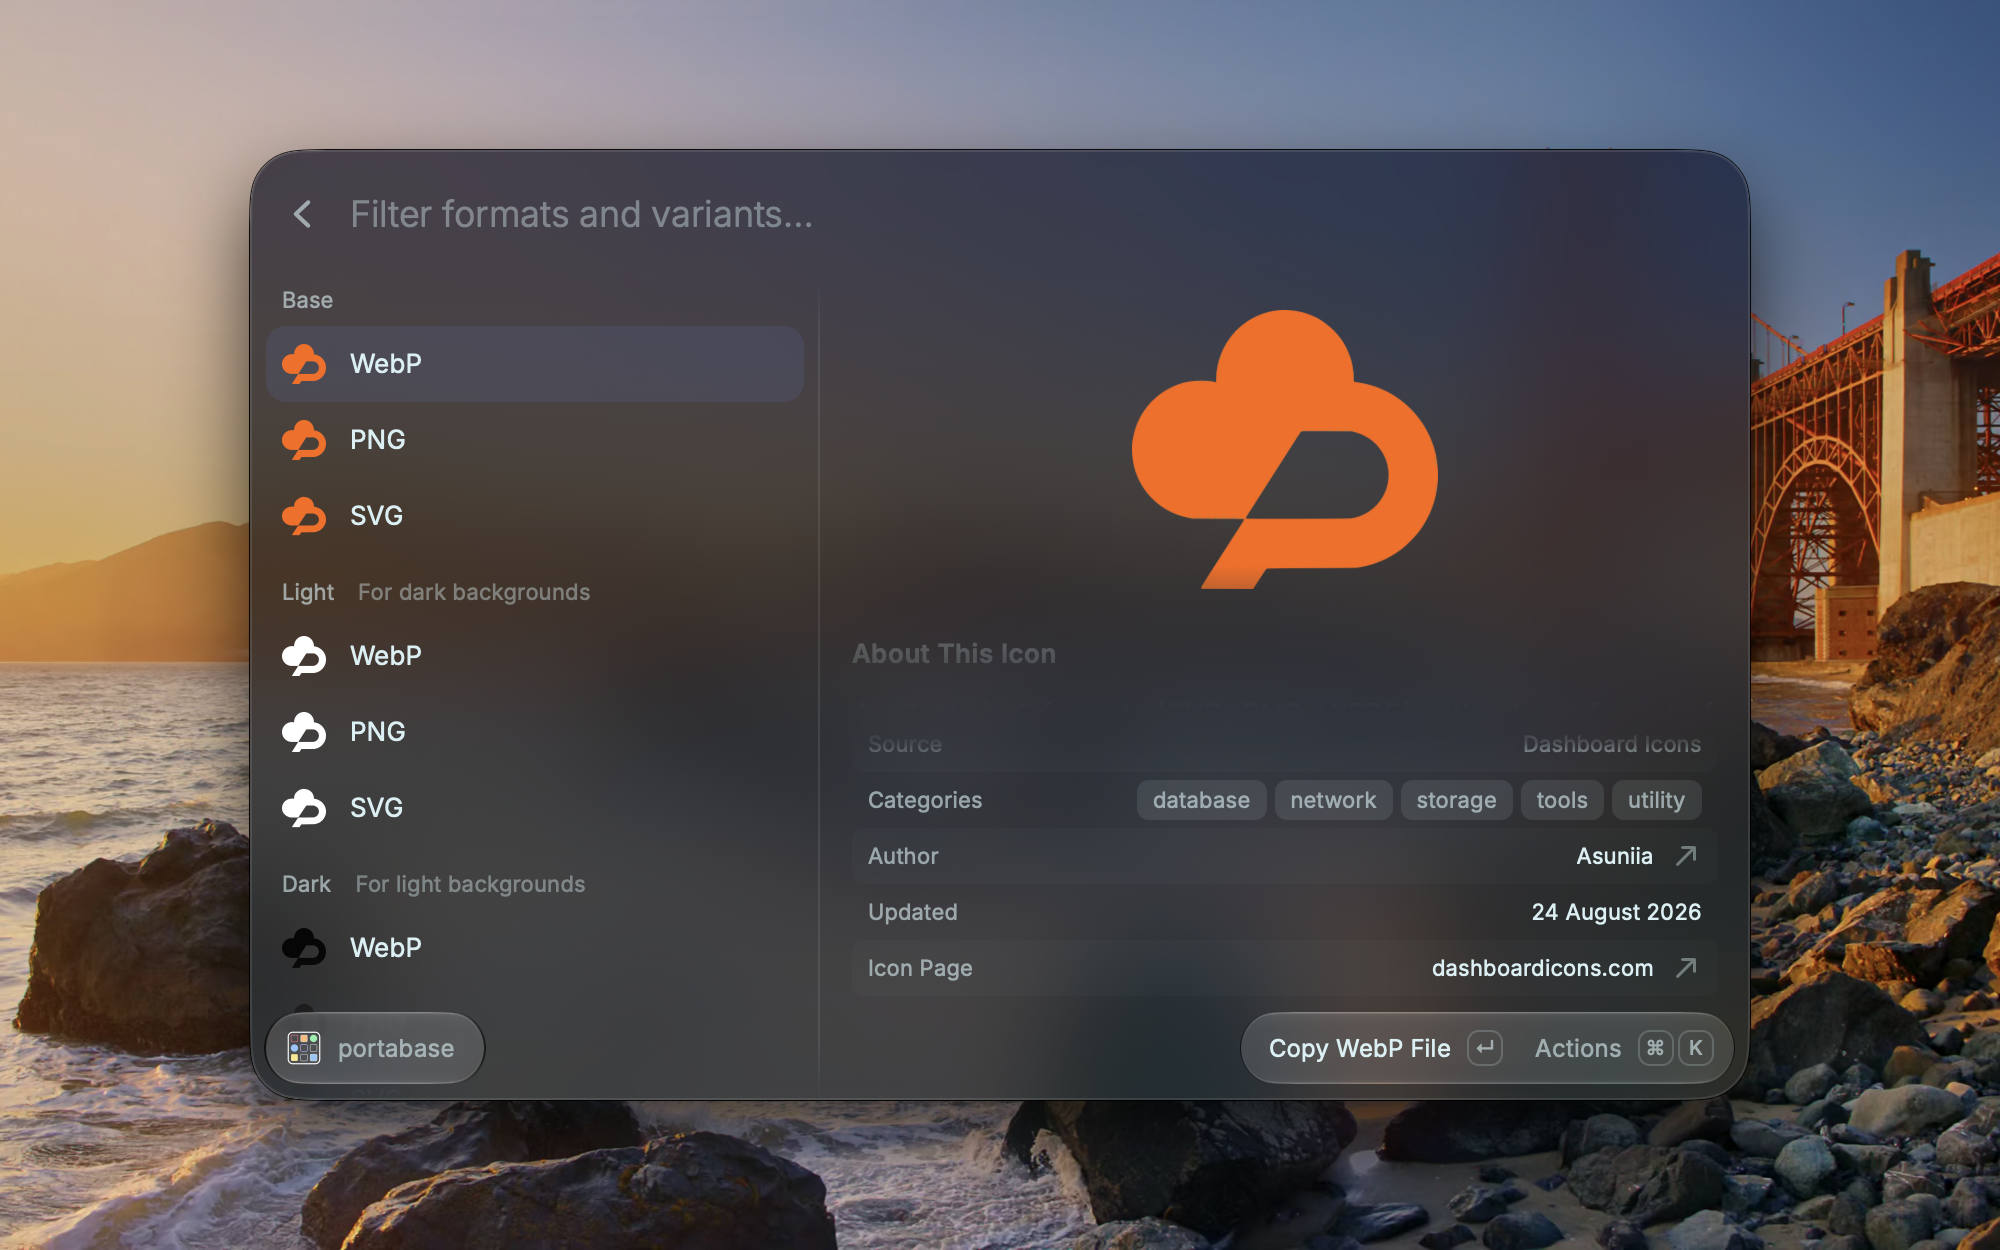
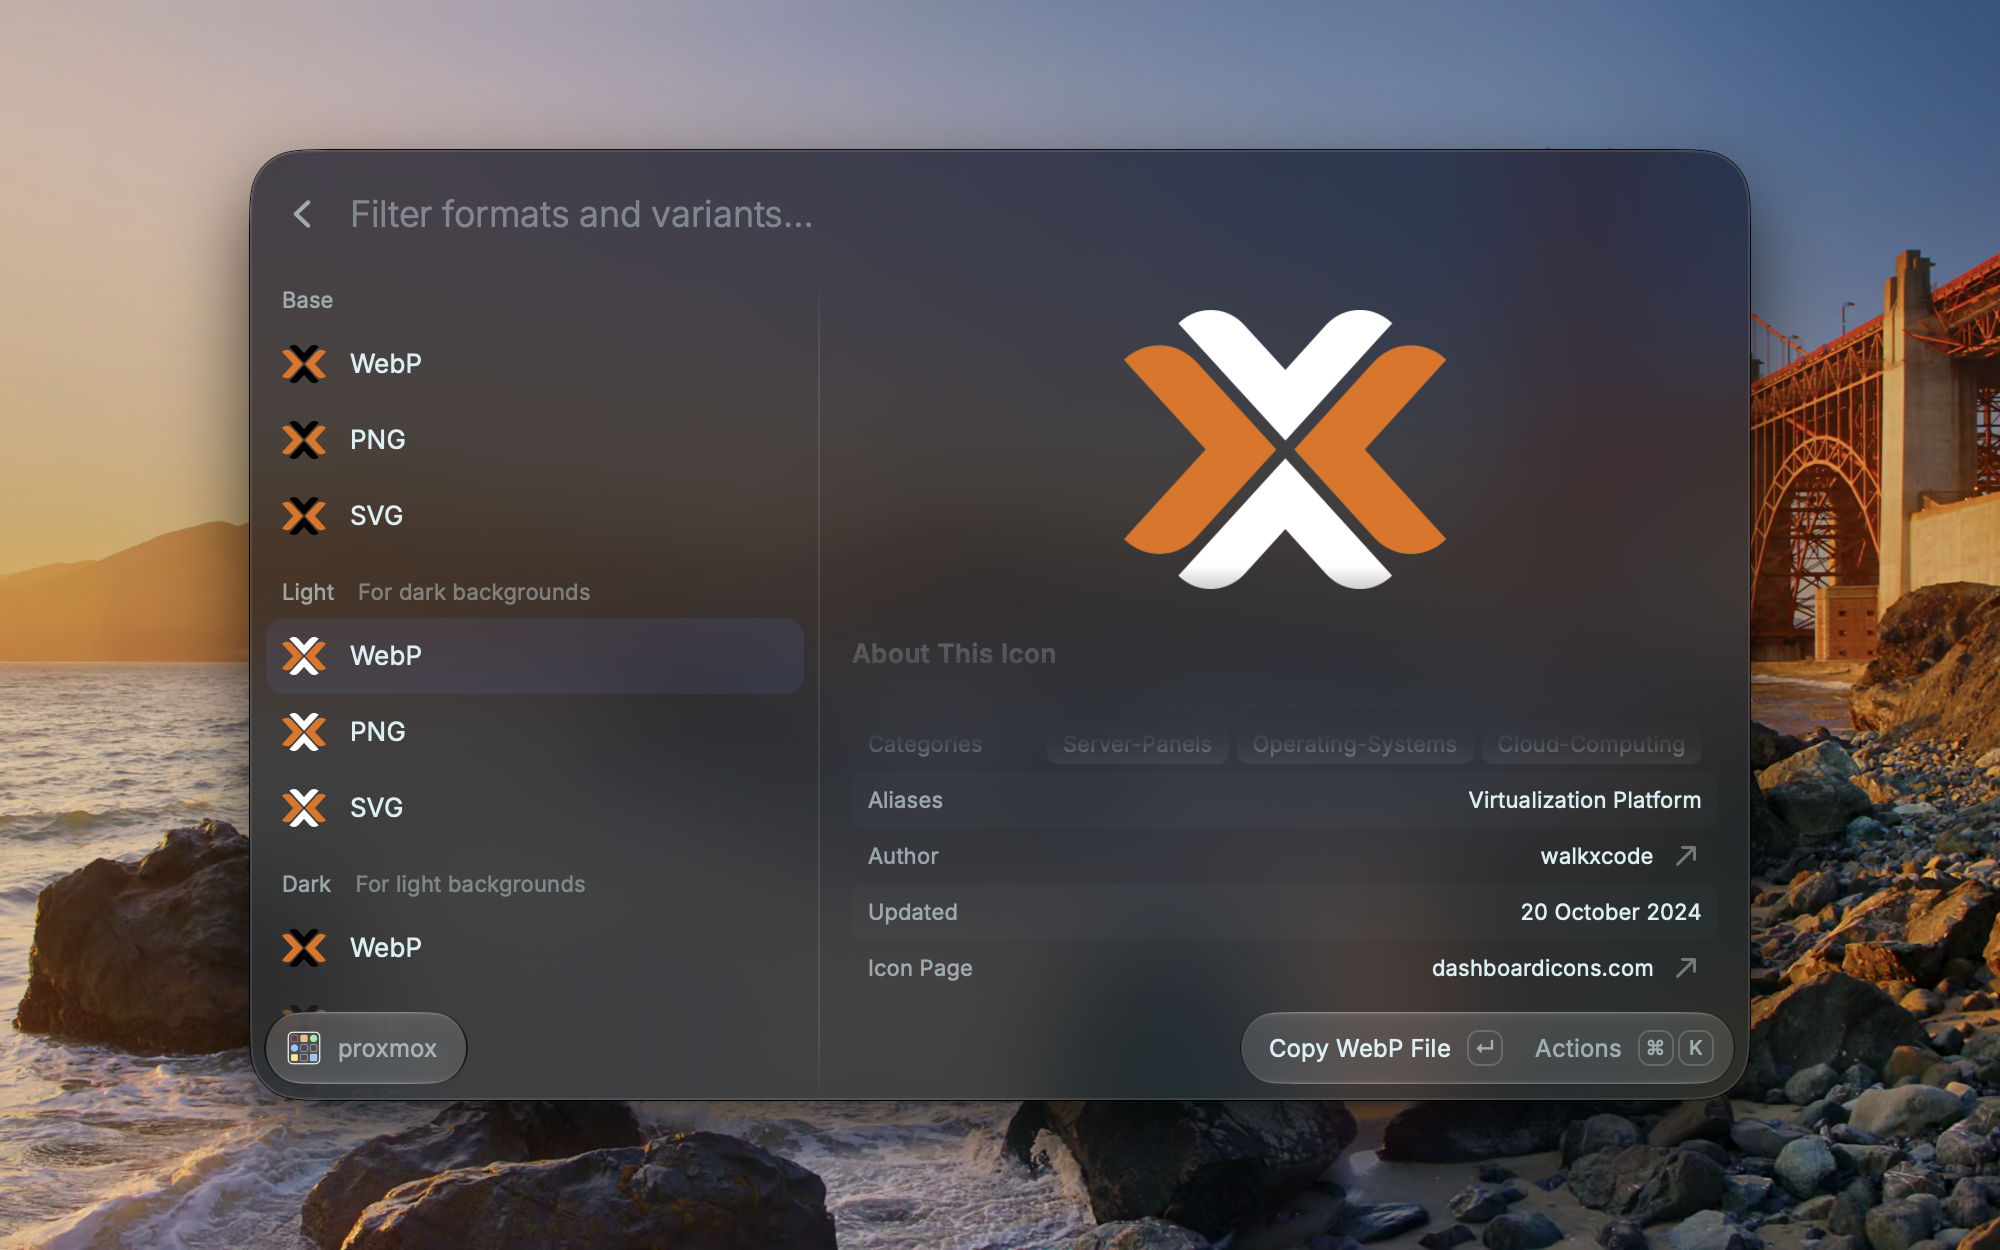
Replace variants screenshot with Proxmox

diff --git a/README.md b/README.md
@@ -20,7 +20,7 @@
 <table>
   <tr>
     <td width="33%" align="center">
-      <a href="metadata/dashboard-icons-2-variants.png"><img src="metadata/dashboard-icons-2-variants.png" alt="Base, Light and Dark variants of Portabase with preview, author and categories"></a><br>
+      <a href="metadata/dashboard-icons-2-variants.png"><img src="metadata/dashboard-icons-2-variants.png" alt="Base, Light and Dark variants of Proxmox with preview, author and update date"></a><br>
       <sub>Every variant and format with preview</sub>
     </td>
     <td width="33%" align="center">
